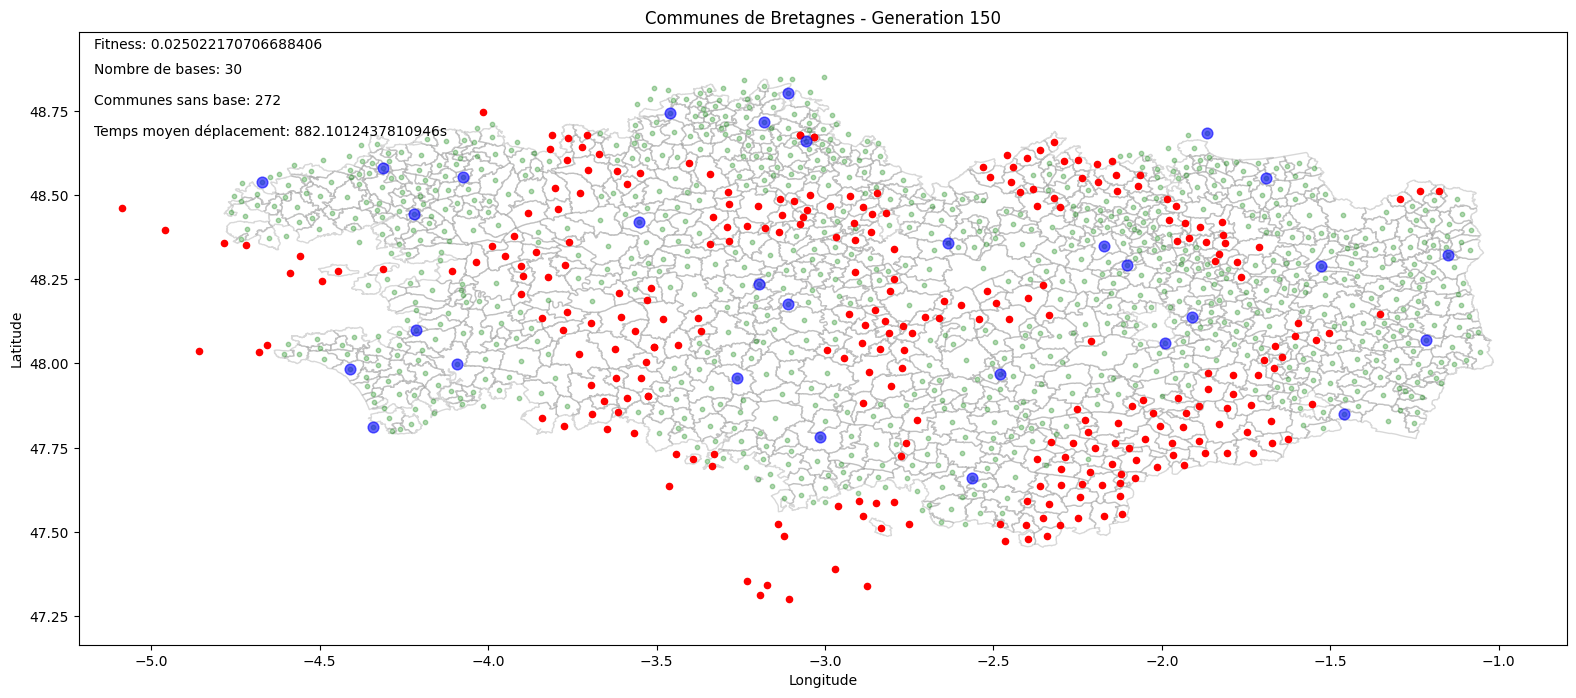
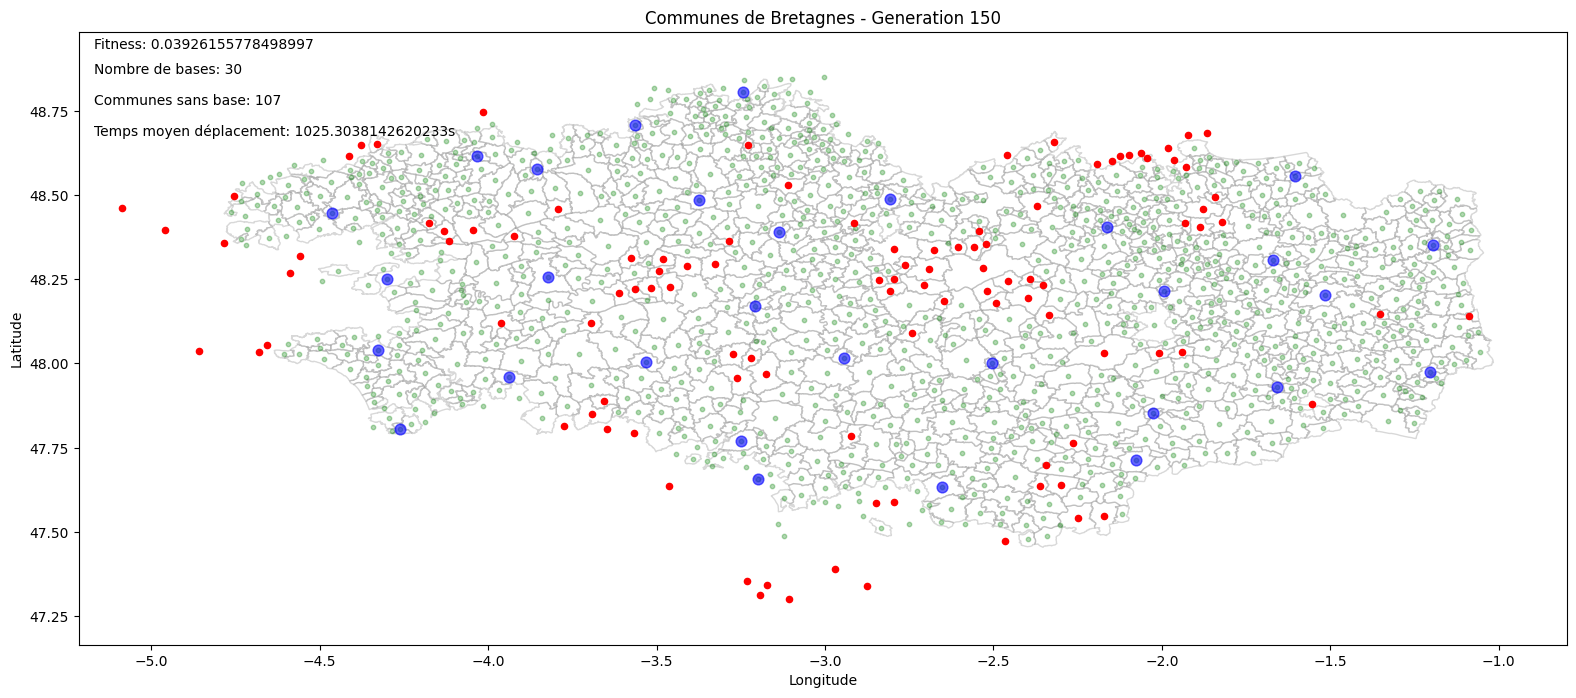
feat: upload img

diff --git a/src/utils.py b/src/utils.py
@@ -22,58 +22,37 @@ def plot_individual(best,
                        edgecolor='grey',
                        figsize=(22, 12),
                        alpha=0.3)
-    gdf.plot(ax=ax, figsize=(12, 6), markersize=10, color='green', alpha=0.5)
+    gdf.plot(ax=ax, figsize=(12, 6), markersize=10, color='green', alpha=0.25)
+    
     plt.title(f'Communes de Bretagnes - Generation {i}')
     plt.xlabel('Longitude')
     plt.ylabel('Latitude')
     plt.xlim(-5.215, -0.798)  # zoom on brittany
     plt.ylim(47.165, 48.984)
     plt.text(.01,
-             .99,
+             .95,
              f'Fitness: {best.fitness}',
              ha='left',
              va='top',
              transform=ax.transAxes)
     plt.text(.01,
-             .95,
+             .90,
              f'Nombre de bases: {best.base_count}',
              ha='left',
              va='top',
              transform=ax.transAxes)
     plt.text(.01,
-             .90,
+             .85,
              f'Communes sans base: {len(best.without_bases)}',
              ha='left',
              va='top',
              transform=ax.transAxes)
     plt.text(.01,
-             .85,
+             .80,
              f'Temps moyen déplacement: {best.avg_dist_to_base}s',
              ha='left',
              va='top',
              transform=ax.transAxes)
-    legend_elements = [
-        Line2D([0], [0],
-               marker='o',
-               color='w',
-               label='Scatter',
-               markerfacecolor='g',
-               markersize=10),
-        Line2D([0], [0],
-               marker='o',
-               color='w',
-               label='Scatter',
-               markerfacecolor='r',
-               markersize=20),
-        Line2D([0], [0],
-               marker='o',
-               color='w',
-               label='Scatter',
-               markerfacecolor='b',
-               markersize=60),
-    ]
-    ax.legend(handles=legend_elements, loc='upper right')
-    ax.legend(['Communes déservies', 'Communes a plus de 30 min d\'une base', 'Bases'])
     base_names = []
     for gene in best.genes:
         base_names.append(nodes[gene])
@@ -92,6 +71,15 @@ def plot_individual(best,
         not_covered.append(
             gpd.GeoDataFrame(communes_filtered, geometry='geometry'))
 
+
+    for commune in not_covered[:1]:
+        commune.plot(ax=ax,
+                     figsize=(12, 6),
+                     markersize=20,
+                     color='red',
+                     alpha=1)
+    for b in bases[:1]:
+        b.plot(ax=ax, figsize=(12, 6), markersize=60, color='blue', alpha=0.6)
     for commune in not_covered:
         commune.plot(ax=ax,
                      figsize=(12, 6),
@@ -100,6 +88,7 @@ def plot_individual(best,
                      alpha=1)
     for b in bases:
         b.plot(ax=ax, figsize=(12, 6), markersize=60, color='blue', alpha=0.6)
+    plt.legend(['Communes déservies', 'Communes a plus de 30 min d\'une base', 'Bases'])
 
     # clear the figure
     fig.canvas.draw()
